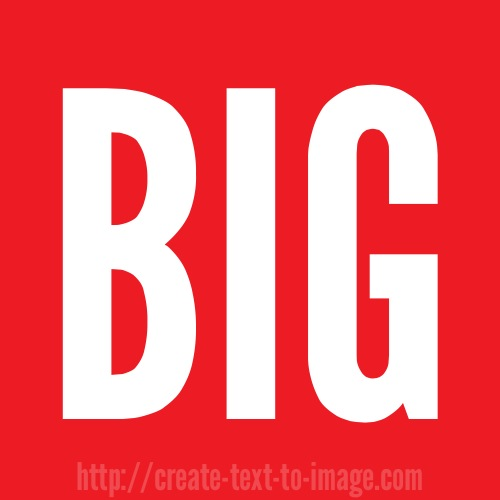
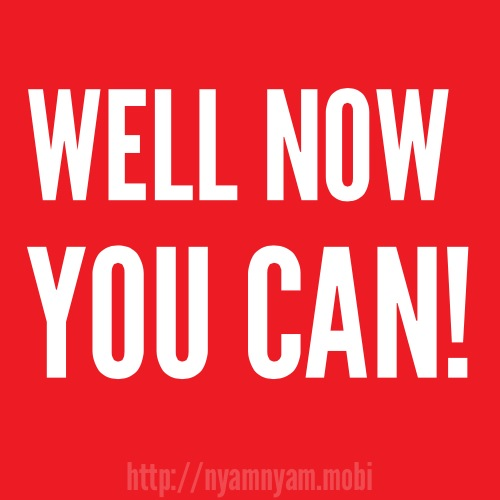
created SlideShow

diff --git a/index.html b/index.html
@@ -82,10 +82,17 @@ $(function() {
 
 <div id="top"><a id="download" href="https://itunes.apple.com/us/app/tubecount/id639386893?mt=8&uo=4" target="itunes_store"></a></div>
 
-  <div id="slideshow" class="cycle-slideshow">
- 	<img data-id="1" src="foto2.jpg">
-	<img data-id="2" src="foto3.jpg">
-	<img data-id="3" src="foto4.jpg">
+  <div id="slideshow" class="cycle-slideshow" data-cycle-timeout="2500">
+ 	<img src="foto1.jpg">
+ 	<img src="foto2.jpg">
+	<img src="foto3.jpg">
+	<img src="foto4.jpg">
+	<img src="foto5.jpg">
+ 	<img src="foto6.jpg">
+	<img src="foto7.jpg">
+	<img src="foto8.jpg">
+	<img src="foto9.jpg">
+	<img src="foto10.jpg">
   </div>
 
 </body>
